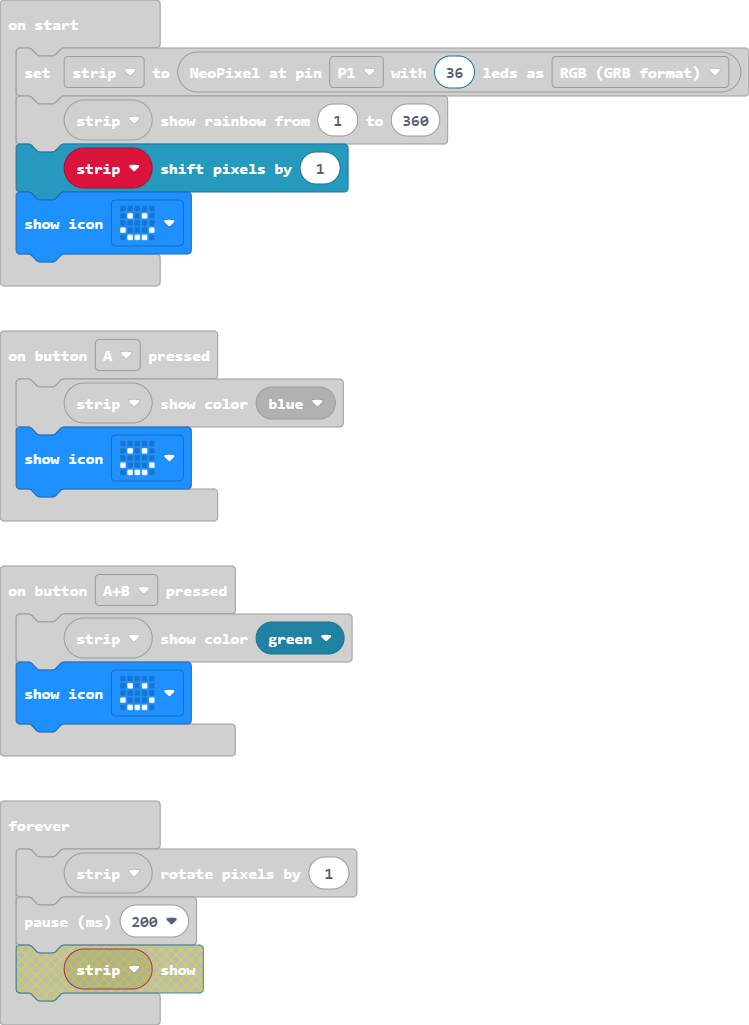
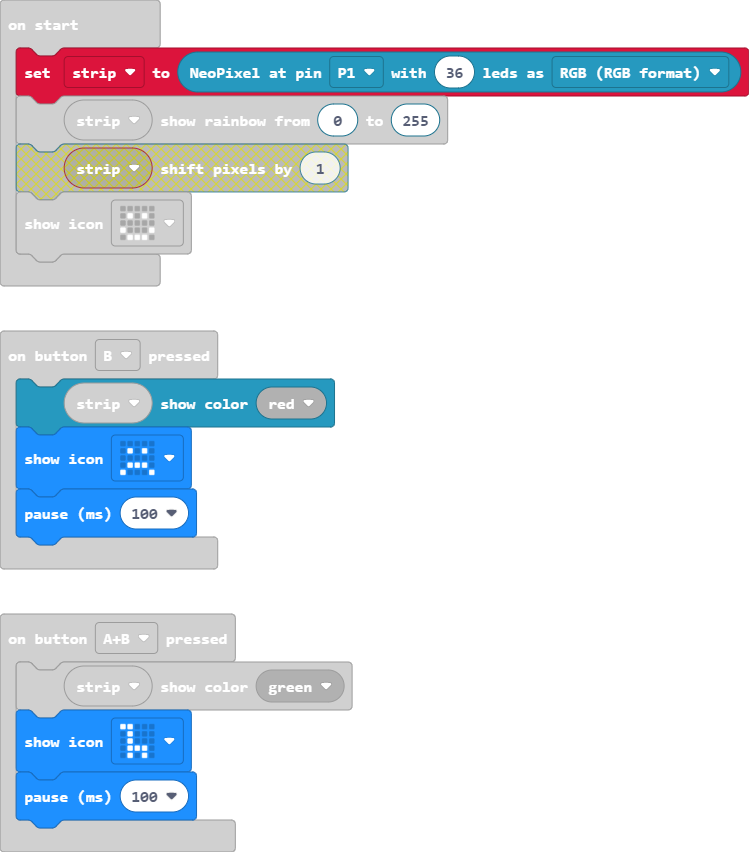
green light

diff --git a/main.ts b/main.ts
@@ -4,15 +4,17 @@ input.onButtonPressed(Button.A, function () {
 })
 input.onButtonPressed(Button.AB, function () {
     strip.showColor(neopixel.colors(NeoPixelColors.Green))
-    basic.showIcon(IconNames.Happy)
+    basic.showIcon(IconNames.Giraffe)
+    basic.pause(100)
 })
 input.onButtonPressed(Button.B, function () {
     strip.showColor(neopixel.colors(NeoPixelColors.Red))
+    basic.showIcon(IconNames.Sad)
+    basic.pause(100)
 })
 let strip: neopixel.Strip = null
-strip = neopixel.create(DigitalPin.P1, 36, NeoPixelMode.RGB)
-strip.showRainbow(1, 360)
-strip.shift(1)
+strip = neopixel.create(DigitalPin.P1, 36, NeoPixelMode.RGB_RGB)
+strip.showRainbow(0, 255)
 basic.showIcon(IconNames.Happy)
 basic.forever(function () {
     strip.rotate(1)
